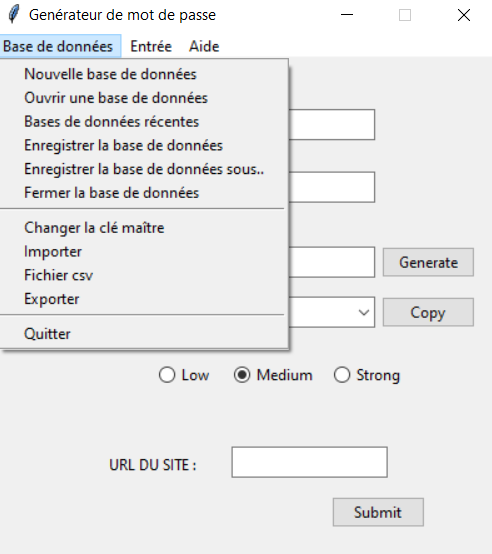
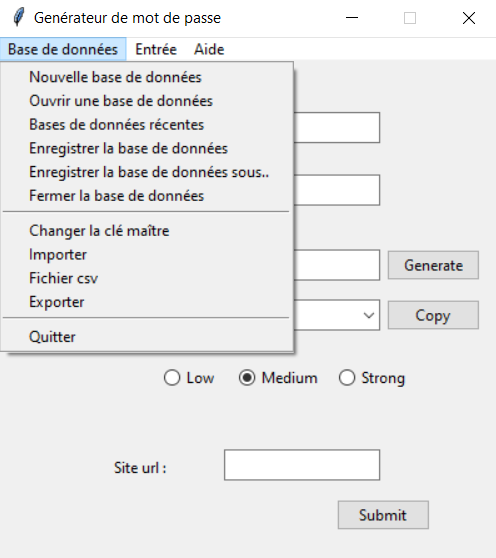
ajout screenshots

diff --git a/interface.py b/interface.py
@@ -135,10 +135,10 @@ radio_strong = Radiobutton(fen, text="Strong", variable=var, value=3)
 radio_strong.place(x=270, y=240, width=75, height=25)
 
 #label pour l'URL
-TxtURL= Label(fen, text="URL DU SITE :")
+TxtURL= Label(fen, text="Site url :")
 TxtURL.place(x=90, y=300, width=200, height=50)
 CURL = Entry(fen)
-CURL.place(x=190, y=310, width=125, height=25)
+CURL.place(x=180, y=310, width=125, height=25)
 
 
 #afficher la liste déroulante
